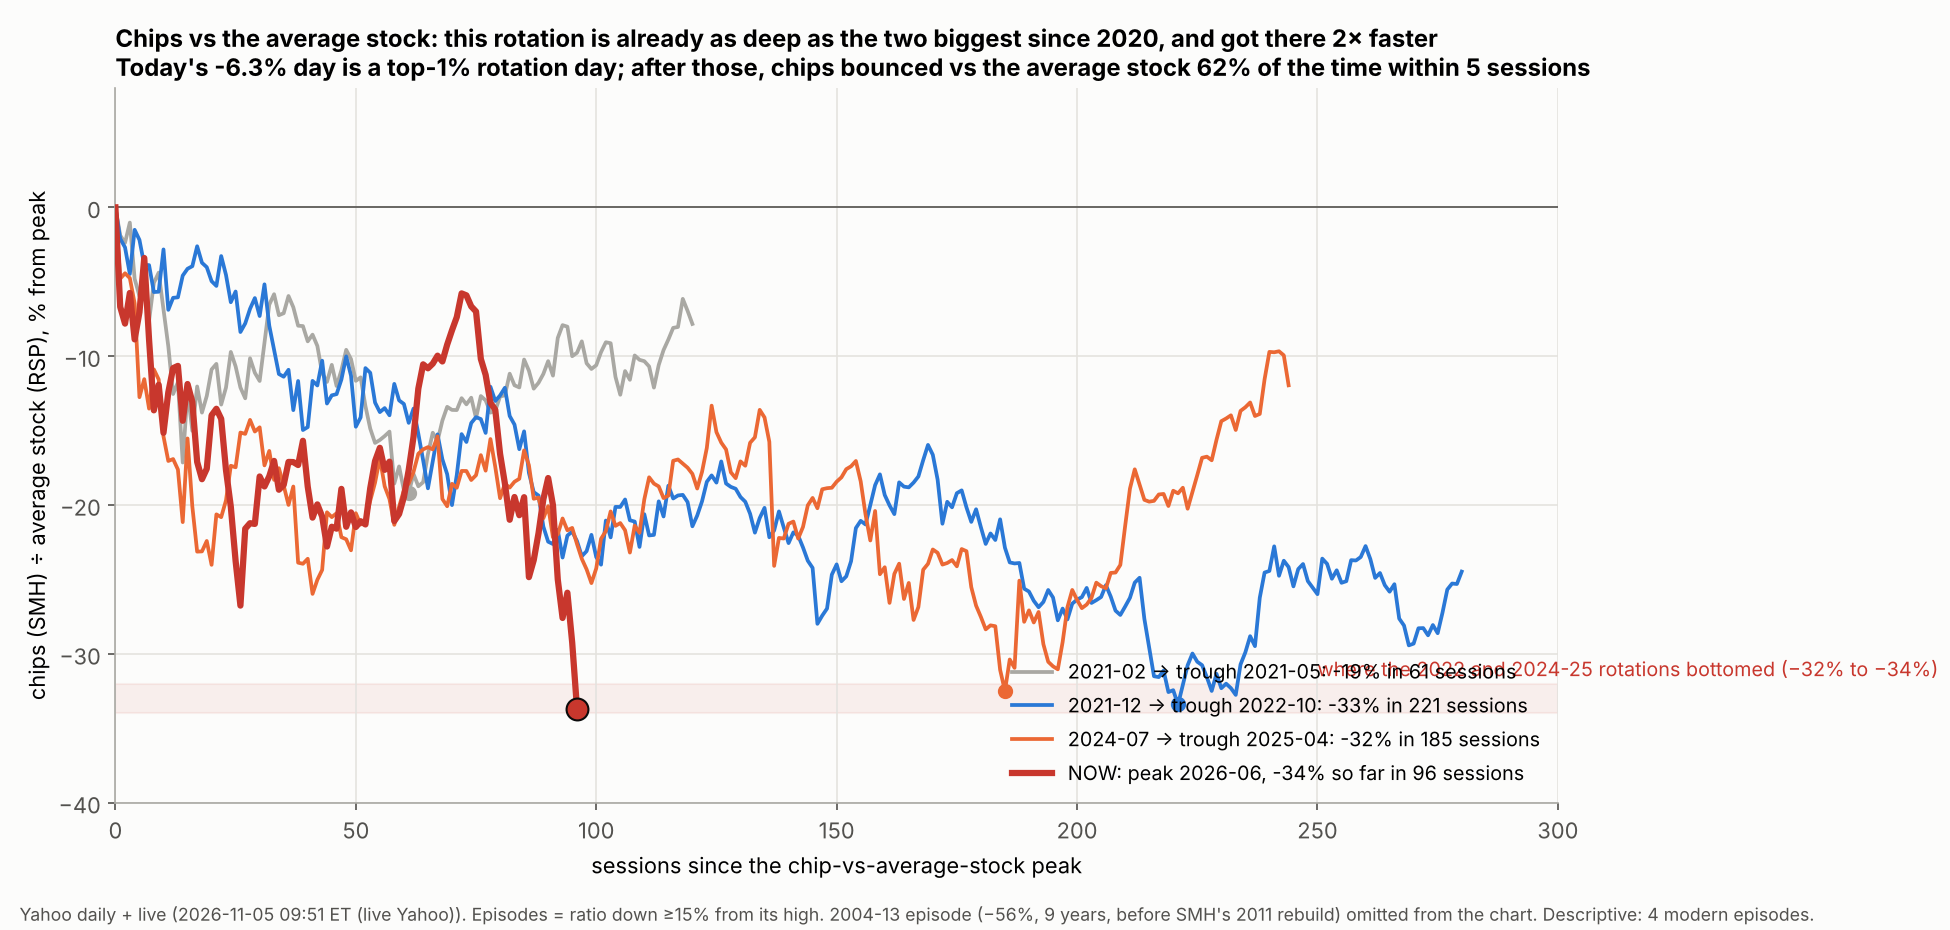
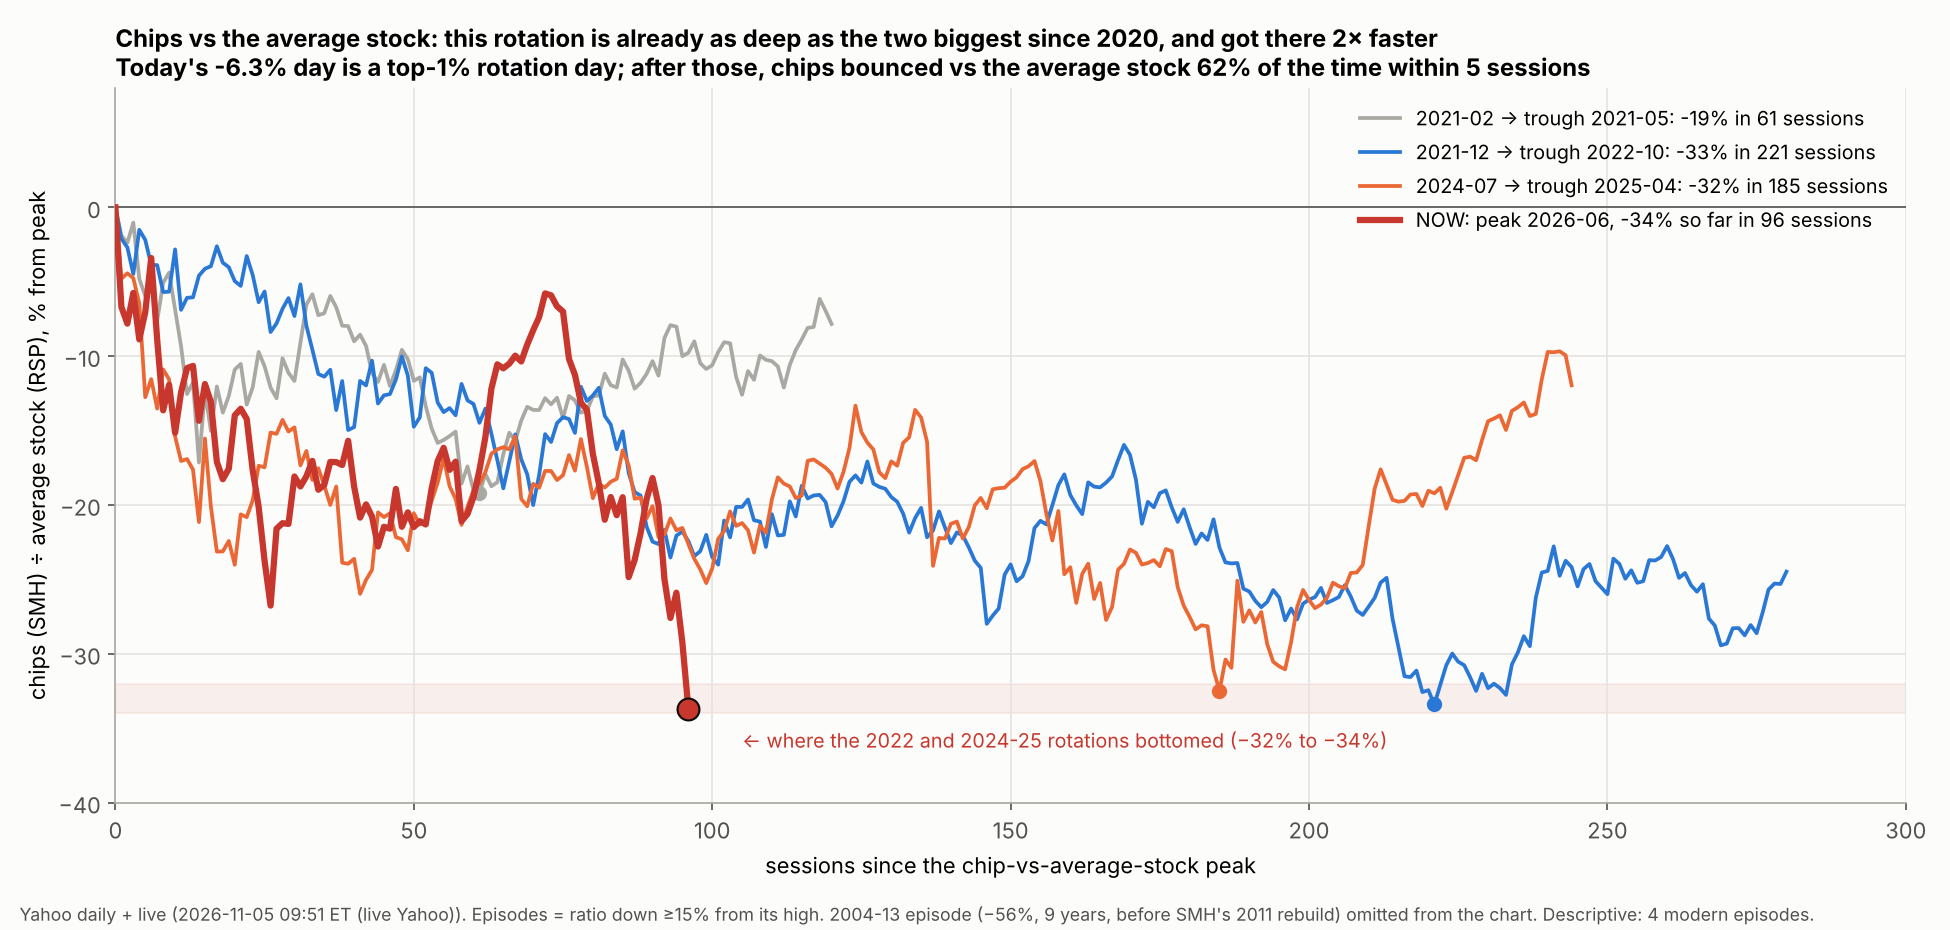
AI rotation figure: label layout
Claude-Session: https://claude.ai/code/session_01BLeRcE4q4QKts4yCLqRzgv

diff --git a/research/agents/2026-11-05-ai-rotation/figure.py b/research/agents/2026-11-05-ai-rotation/figure.py
@@ -18,10 +18,10 @@ for e in eps:
     ax.plot(x, y.values, color=cols.get(e["peak"], GRAY), lw=3 if now else 1.8, label=lab, zorder=5 if now else 3)
     if e["recovered"]: ax.scatter([e["sessions peak->trough"]], [e["depth %"]], color=cols.get(e["peak"], GRAY), s=40, zorder=4)
 ax.scatter([eps[-1]["sessions peak->trough"]], [eps[-1]["depth %"]], color=RED, s=110, zorder=6, edgecolor=INK)
-ax.axhspan(-34, -32, color=RED, alpha=0.07); ax.text(250, -31.5, "where the 2022 and 2024-25 rotations bottomed (−32% to −34%)", fontsize=9.5, color=RED)
+ax.axhspan(-34, -32, color=RED, alpha=0.07); ax.text(105, -36.3, "← where the 2022 and 2024-25 rotations bottomed (−32% to −34%)", fontsize=9.5, color=RED)
 ax.axhline(0, color=INK2, lw=0.8); ax.set_xlim(0, 300); ax.set_ylim(-40, 8)
 ax.set_xlabel("sessions since the chip-vs-average-stock peak"); ax.set_ylabel("chips (SMH) ÷ average stock (RSP), % from peak")
-ax.legend(frameon=False, loc="lower right", fontsize=9.5)
+ax.legend(frameon=False, loc="upper right", fontsize=9.5)
 a5 = J["after top-1% one-day rotation drops (ratio), excl today"]
 ax.set_title(f"Chips vs the average stock: this rotation is already as deep as the two biggest since 2020, and got there 2× faster\n"
              f"Today's {J['today\'s one-day ratio move %']:.1f}% day is a top-1% rotation day; after those, chips bounced vs the average stock {100 * a5['next 5 sessions ratio median % / share up'][1]:.0f}% of the time within 5 sessions", loc="left", fontsize=11.5)
